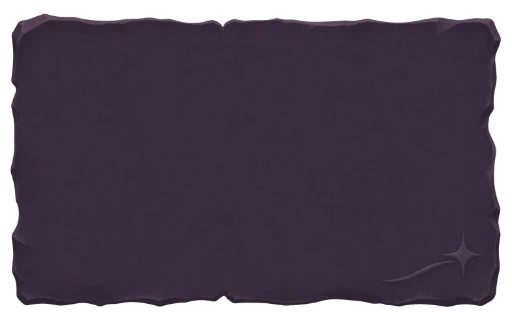
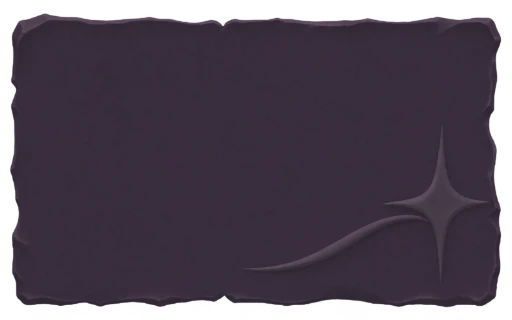
Укрупнить рисунки параметров магии и оформить числа шрифтом Cormorant

diff --git a/frontend/src/features/character-editor/blocks/dnd/components/SpellcastingParameters.vue b/frontend/src/features/character-editor/blocks/dnd/components/SpellcastingParameters.vue
@@ -39,7 +39,7 @@ defineEmits(['settings'])
 .spell-parameter--save {--spell-parameter-art:url('@/assets/ui/spell-stat-save.webp')}
 .spell-parameter-label {color:var(--text-2);font-family:var(--type-spell-parameter-label-family);font-size:var(--type-spell-parameter-label-size);line-height:var(--type-spell-parameter-label-line-height);font-weight:var(--type-spell-parameter-label-weight)}
 .spell-parameter-value {color:var(--text-1);font-family:var(--type-spell-parameter-value-family);font-size:var(--type-spell-parameter-value-size);line-height:var(--type-spell-parameter-value-line-height);font-weight:var(--type-spell-parameter-value-weight);font-variant-numeric:tabular-nums}
-.spell-parameter-value--name {font-size:var(--type-spell-parameter-name-size);font-weight:var(--type-spell-parameter-name-weight);overflow-wrap:anywhere}
+.spell-parameter-value--name {font-family:var(--type-spell-parameter-name-family);font-size:var(--type-spell-parameter-name-size);line-height:var(--type-spell-parameter-name-line-height);font-weight:var(--type-spell-parameter-name-weight);overflow-wrap:anywhere}
 .spell-parameter-settings-cell {display:flex;min-width:0;padding:var(--spacing-compact)}
 .spell-parameter-settings {flex:1;min-width:0}
 .spell-parameter-settings-icon {flex:none}

diff --git a/frontend/src/app/design-tokens.css b/frontend/src/app/design-tokens.css
@@ -1,4 +1,4 @@
-/* Generated by scripts/design/tokens.py; source sha256 9cd148868a3f7ac763ec6c1be882676e07ca2545f797f55fee3fb02f0854516c */
+/* Generated by scripts/design/tokens.py; source sha256 0d3d6ceb721b5949da85357d07ee745971c8fcd0433e5c2516583bf0592fd515 */
 :root {
   --accent: #7c5ce2;
   --accent-hover: #6847c7;
@@ -281,9 +281,9 @@
   --type-spell-parameter-label-line-height: 16px;
   --type-spell-parameter-label-weight: 500;
   --type-spell-parameter-label-tracking: 0px;
-  --type-spell-parameter-value-family: var(--font-ui);
-  --type-spell-parameter-value-size: 28px;
-  --type-spell-parameter-value-line-height: 30px;
+  --type-spell-parameter-value-family: var(--font-display);
+  --type-spell-parameter-value-size: 34px;
+  --type-spell-parameter-value-line-height: 34px;
   --type-spell-parameter-value-weight: 700;
   --type-spell-parameter-value-tracking: 0px;
   --type-spell-parameter-name-family: var(--font-ui);

diff --git a/frontend/src/app/design-tokens.js b/frontend/src/app/design-tokens.js
@@ -1,4 +1,4 @@
-// Generated by scripts/design/tokens.py; source sha256 9cd148868a3f7ac763ec6c1be882676e07ca2545f797f55fee3fb02f0854516c
+// Generated by scripts/design/tokens.py; source sha256 0d3d6ceb721b5949da85357d07ee745971c8fcd0433e5c2516583bf0592fd515
 export const layoutTokens = Object.freeze({
   "tablet": 600,
   "desktop": 1200,

diff --git a/md/features/character-editor/magic.md b/md/features/character-editor/magic.md
@@ -23,12 +23,16 @@
 атака заклинанием, СЛ спасброска, затем кнопка-шестерёнка «Настройки вкладки».
 Первые три показателя имеют отдельные рисованные WebP-подложки с пером,
 магической искрой и щитом; подписи и значения остаются текстом интерфейса.
+Приглушённые рисунки занимают правую треть подложек и заметны в размере плитки;
+левая область остаётся спокойной для текста.
 В контейнере до 560 px используется сетка 2×2, в широком — один ряд.
 Кнопка настроек открывает прежний редактор выбранной книги; читателю она недоступна.
 Она пунктирная, без постоянной заливки: шестерёнка 32 px слева, подпись
 «Настройки / вкладки» в две строки. Внутренняя посадка уравнивает её видимый
 размер с рисованными подложками. Подписи показателей — обычный регистр 12/16,
-значения — 28/30, название характеристики — 18/30; горизонтальный отступ 16 px.
+числа атаки и СЛ — Cormorant Garamond 700, 34/34, название характеристики —
+обычный UI-шрифт 18/30; горизонтальный отступ 16 px. Шрифты упакованы локально
+и доступны в вебе и Android без внешней загрузки.
 Рецепты и промпты — [манифест подложек](../../../design/spell-stat-plates.json).
 Книги используют общий `SlidingTabs plain`
 с рисованной подложкой пергамента и акцентным выбранным состоянием; клавиши
